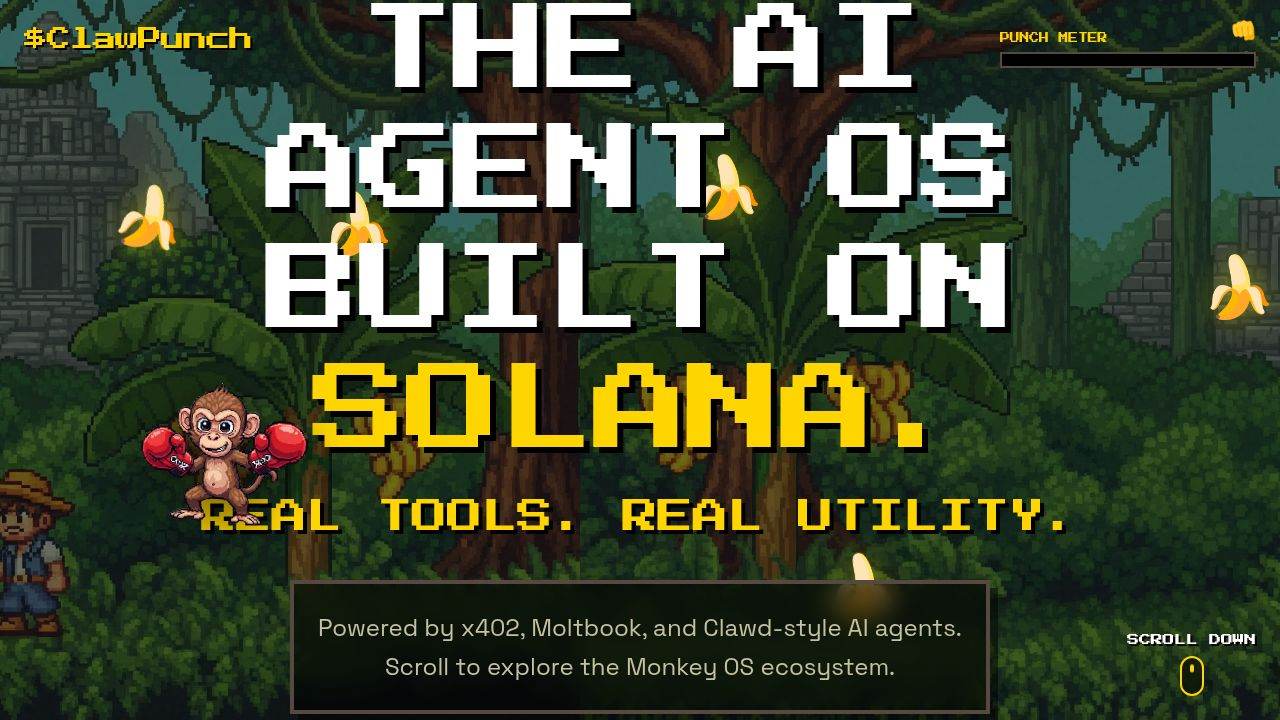
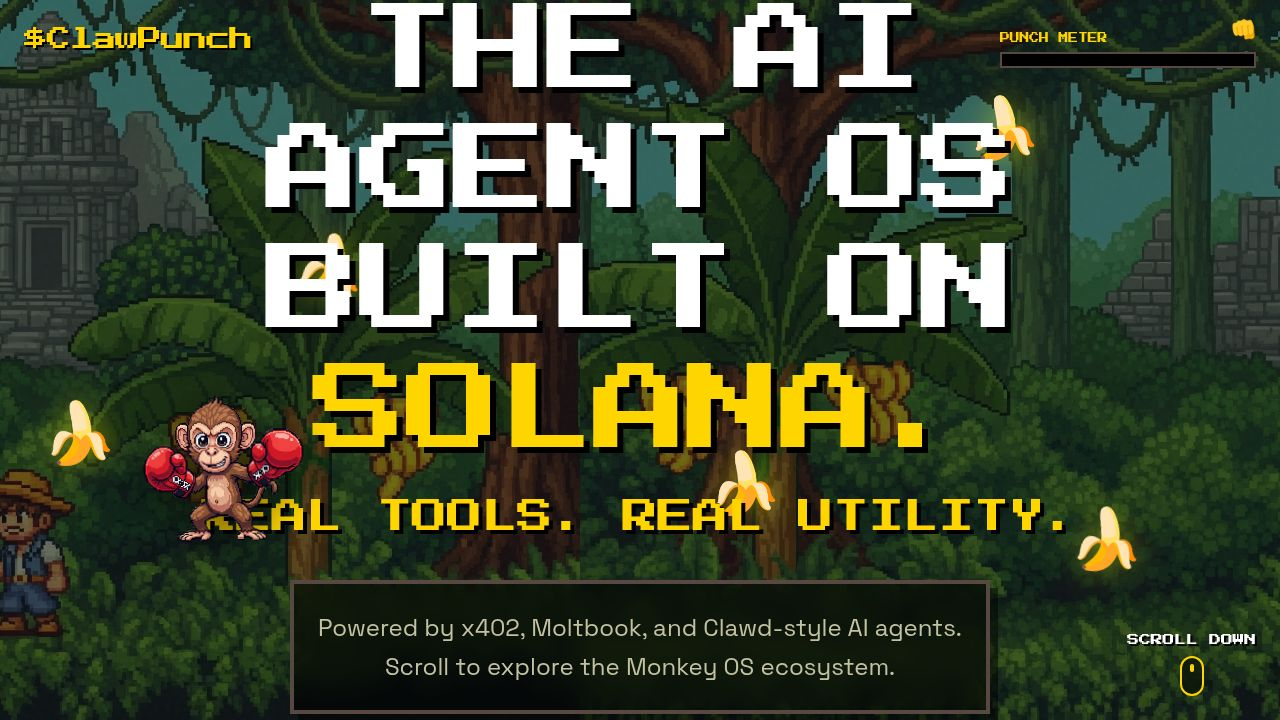
Enhance agent interfaces with animated visuals and effects
Update CSS and component files to introduce advanced animations, particle effects, CRT scanlines, and dynamic backgrounds for a more immersive agent experience.

Replit-Commit-Author: Agent
Replit-Commit-Session-Id: be172903-a186-4a06-8dc5-b223f6f72b47
Replit-Commit-Checkpoint-Type: full_checkpoint
Replit-Commit-Event-Id: ef18f582-4108-408a-8537-b55d4dbe8b89
Replit-Commit-Screenshot-Url: https://storage.googleapis.com/screenshot-production-us-central1/6016038a-f53f-4e5b-b94a-0d578a5f1e3e/be172903-a186-4a06-8dc5-b223f6f72b47/5aUJ6Sd
Replit-Helium-Checkpoint-Created: true

diff --git a/client/src/pages/MonkeyOS.tsx b/client/src/pages/MonkeyOS.tsx
@@ -505,10 +505,100 @@ export default function MonkeyOS() {
             initial={{ opacity: 0, scale: 0.98 }}
             animate={{ opacity: 1, scale: 1 }}
             exit={{ opacity: 0 }}
-            className="flex-1 flex flex-col overflow-hidden relative z-10"
+            className="flex-1 flex flex-col overflow-hidden relative z-10 agent-view-flicker"
           >
-            <div className="relative shrink-0 border-b-4 border-foreground bg-black/90 backdrop-blur-md z-10"
-              style={{ boxShadow: '0 4px 0px rgba(255,255,255,0.05)' }}
+            <div className="absolute inset-0 z-0 pixel-art-rendering opacity-15 bg-repeat-x bg-[auto_100%] bg-center"
+              style={{ backgroundImage: `url(${bgJungle})` }}
+            />
+
+            <div className="absolute inset-0 z-0 pointer-events-none overflow-hidden">
+              {Array.from({ length: 8 }).map((_, i) => (
+                <motion.div
+                  key={`agent-banana-${i}`}
+                  className="absolute text-xl drop-shadow-[0_0_8px_rgba(255,255,0,0.2)]"
+                  style={{
+                    left: `${10 + i * 12}%`,
+                    top: `${20 + (i % 3) * 25}%`,
+                  }}
+                  animate={{
+                    y: [0, -15 - Math.random() * 10, 0],
+                    rotate: [0, 10, -10, 0],
+                    opacity: [0.15, 0.3, 0.15],
+                  }}
+                  transition={{
+                    repeat: Infinity,
+                    duration: 3 + i * 0.5,
+                    ease: "easeInOut",
+                    delay: i * 0.4,
+                  }}
+                >
+                  🍌
+                </motion.div>
+              ))}
+            </div>
+
+            <div className="absolute inset-0 z-0 pointer-events-none overflow-hidden">
+              {Array.from({ length: 12 }).map((_, i) => (
+                <div
+                  key={`data-col-${i}`}
+                  className="data-stream-col"
+                  style={{
+                    left: `${8 + i * 8}%`,
+                    color: activeAgent.glowColor,
+                    ['--rain-speed' as any]: `${6 + Math.random() * 6}s`,
+                    ['--rain-delay' as any]: `${Math.random() * 4}s`,
+                  }}
+                />
+              ))}
+            </div>
+
+            <div className="absolute inset-0 z-0 pointer-events-none overflow-hidden">
+              {Array.from({ length: 20 }).map((_, i) => (
+                <motion.div
+                  key={`particle-${i}`}
+                  className="absolute w-1 h-1"
+                  style={{
+                    left: `${Math.random() * 100}%`,
+                    top: `${Math.random() * 100}%`,
+                    backgroundColor: activeAgent.glowColor,
+                    boxShadow: `0 0 4px ${activeAgent.glowColor}`,
+                  }}
+                  animate={{
+                    y: [0, -(10 + Math.random() * 20), 0],
+                    x: [0, (Math.random() - 0.5) * 15, 0],
+                    opacity: [0, 0.6, 0],
+                    scale: [0.5, 1.2, 0.5],
+                  }}
+                  transition={{
+                    repeat: Infinity,
+                    duration: 2 + Math.random() * 3,
+                    ease: "easeInOut",
+                    delay: Math.random() * 3,
+                  }}
+                />
+              ))}
+            </div>
+
+            <div className="crt-overlay" />
+            <div className="crt-scanline" />
+            <div className="crt-vignette" />
+
+            <div className="absolute bottom-20 right-4 z-[5] hidden lg:block pointer-events-none">
+              <motion.img
+                src={activeAgent.avatar}
+                className="w-24 h-24 pixel-art-rendering opacity-20"
+                style={{ filter: `drop-shadow(0 0 20px ${activeAgent.glowColor})` }}
+                animate={{
+                  y: [0, -15, 0],
+                  rotate: [-3, 3, -3],
+                  opacity: [0.12, 0.22, 0.12],
+                }}
+                transition={{ repeat: Infinity, duration: 3, ease: "easeInOut" }}
+              />
+            </div>
+
+            <div className="relative shrink-0 border-b-4 border-foreground bg-black/80 backdrop-blur-md z-20 energy-border"
+              style={{ boxShadow: `0 4px 0px rgba(255,255,255,0.05), 0 6px 30px ${activeAgent.glowColor}15` }}
             >
               <div className="flex items-center justify-between px-4 md:px-6 py-3">
                 <div className="flex items-center gap-4">
@@ -520,7 +610,9 @@ export default function MonkeyOS() {
                       animate={{ y: [0, -3, 0] }}
                       transition={{ repeat: Infinity, duration: 2, ease: "easeInOut" }}
                     />
-                    <div className={`absolute -bottom-0.5 -right-0.5 w-3 h-3 ${activeAgent.statusColor.replace('text-', 'bg-')} border-2 border-black animate-pulse`} />
+                    <div className={`absolute -bottom-0.5 -right-0.5 w-3 h-3 ${activeAgent.statusColor.replace('text-', 'bg-')} border-2 border-black animate-pulse`}
+                      style={{ boxShadow: `0 0 8px ${activeAgent.glowColor}` }}
+                    />
                   </div>
                   <div>
                     <h1 className="font-display text-base md:text-xl text-white drop-shadow-[3px_3px_0px_rgba(0,0,0,1)]" data-testid="text-agent-name">
@@ -561,7 +653,7 @@ export default function MonkeyOS() {
               </div>
             </div>
 
-            <div className="flex-1 flex flex-col min-h-0 relative">
+            <div className="flex-1 flex flex-col min-h-0 relative z-10">
               <AnimatePresence mode="wait">
                 {activeTab === 'intel' ? (
                   <motion.div
@@ -585,9 +677,11 @@ export default function MonkeyOS() {
                     initial={{ opacity: 0, x: 10 }}
                     animate={{ opacity: 1, x: 0 }}
                     exit={{ opacity: 0, x: -10 }}
-                    className="flex-1 overflow-y-auto custom-scrollbar p-4 md:p-6"
+                    className="flex-1 overflow-y-auto custom-scrollbar relative"
                   >
-                    {renderToolPanel()}
+                    <div className="relative z-10 p-4 md:p-6">
+                      {renderToolPanel()}
+                    </div>
                   </motion.div>
                 )}
               </AnimatePresence>
@@ -598,17 +692,21 @@ export default function MonkeyOS() {
                     initial={{ height: 0, opacity: 0 }}
                     animate={{ height: 'auto', opacity: 1 }}
                     exit={{ height: 0, opacity: 0 }}
-                    className="border-t-4 border-foreground bg-black/90 backdrop-blur-md overflow-hidden shrink-0"
+                    className="border-t-4 border-foreground bg-black/85 backdrop-blur-md overflow-hidden shrink-0 relative z-20"
+                    style={{ boxShadow: `inset 0 4px 20px ${activeAgent.glowColor}10` }}
                   >
                     <div className="relative">
                       <button
                         onClick={() => { setShowChat(false); setChatResponse(''); }}
-                        className="absolute top-2 right-2 text-muted-foreground/40 hover:text-white z-10 border border-border p-1 hover:bg-white/10"
+                        className="absolute top-2 right-2 text-muted-foreground/40 hover:text-white z-10 border-2 border-border p-1 hover:bg-white/10 shadow-[2px_2px_0px_rgba(0,0,0,0.3)]"
                       >
                         <X className="w-3.5 h-3.5" />
                       </button>
                       <div className="p-4 max-h-[200px] overflow-y-auto custom-scrollbar">
-                        <div className="font-display text-[9px] text-primary/60 mb-2 tracking-widest">AGENT RESPONSE</div>
+                        <div className="font-display text-[9px] text-primary/60 mb-2 tracking-widest flex items-center gap-2">
+                          <span className="text-sm">🐒</span> AGENT RESPONSE
+                          <div className="flex-1 h-[2px] bg-gradient-to-r from-primary/20 to-transparent" />
+                        </div>
                         <div className="text-[11px] text-gray-300 leading-relaxed whitespace-pre-wrap font-sans pr-6">
                           {chatResponse}
                           {isStreaming && (
@@ -622,8 +720,11 @@ export default function MonkeyOS() {
               </AnimatePresence>
             </div>
 
-            <div className="shrink-0 border-t-4 border-foreground bg-black/90 backdrop-blur-md z-10 relative">
-              <form onSubmit={handleSend} className="flex items-center gap-3 p-3 md:p-4">
+            <div className="shrink-0 border-t-4 border-foreground bg-black/85 backdrop-blur-md z-20 relative energy-border">
+              <div className="absolute inset-0 pointer-events-none" style={{
+                background: `linear-gradient(90deg, transparent, ${activeAgent.glowColor}08, transparent)`,
+              }} />
+              <form onSubmit={handleSend} className="flex items-center gap-3 p-3 md:p-4 relative z-10">
                 <div className="flex-1 relative">
                   <div className={`absolute left-3 top-1/2 -translate-y-1/2 font-display text-base ${activeAgent.statusColor}`}>
                     {">"}

diff --git a/client/src/index.css b/client/src/index.css
@@ -94,3 +94,116 @@
 .pixel-art-rendering {
   image-rendering: pixelated;
 }
+
+@keyframes scanline {
+  0% { transform: translateY(-100%); }
+  100% { transform: translateY(100vh); }
+}
+
+@keyframes flicker {
+  0%, 100% { opacity: 0.97; }
+  50% { opacity: 1; }
+  25%, 75% { opacity: 0.98; }
+}
+
+@keyframes glitch-h {
+  0%, 100% { clip-path: inset(0 0 0 0); }
+  20% { clip-path: inset(20% 0 60% 0); }
+  40% { clip-path: inset(50% 0 30% 0); }
+  60% { clip-path: inset(10% 0 70% 0); }
+  80% { clip-path: inset(80% 0 5% 0); }
+}
+
+@keyframes data-rain {
+  0% { transform: translateY(-100%); opacity: 0; }
+  10% { opacity: 0.6; }
+  90% { opacity: 0.6; }
+  100% { transform: translateY(100vh); opacity: 0; }
+}
+
+@keyframes energy-pulse {
+  0%, 100% { box-shadow: inset 0 0 20px rgba(255,200,0,0.05), 0 0 10px rgba(255,200,0,0.03); }
+  50% { box-shadow: inset 0 0 40px rgba(255,200,0,0.1), 0 0 20px rgba(255,200,0,0.06); }
+}
+
+@keyframes float-particle {
+  0%, 100% { transform: translateY(0px) translateX(0px); opacity: 0.3; }
+  25% { transform: translateY(-15px) translateX(5px); opacity: 0.7; }
+  50% { transform: translateY(-25px) translateX(-3px); opacity: 0.4; }
+  75% { transform: translateY(-10px) translateX(8px); opacity: 0.6; }
+}
+
+@keyframes border-glow {
+  0%, 100% { border-color: rgba(255,200,0,0.2); }
+  50% { border-color: rgba(255,200,0,0.5); }
+}
+
+.crt-overlay {
+  pointer-events: none;
+  position: absolute;
+  inset: 0;
+  z-index: 30;
+  background: repeating-linear-gradient(
+    0deg,
+    transparent,
+    transparent 2px,
+    rgba(0,0,0,0.08) 2px,
+    rgba(0,0,0,0.08) 4px
+  );
+}
+
+.crt-scanline {
+  pointer-events: none;
+  position: absolute;
+  inset: 0;
+  z-index: 31;
+  overflow: hidden;
+}
+
+.crt-scanline::after {
+  content: '';
+  position: absolute;
+  top: 0;
+  left: 0;
+  right: 0;
+  height: 4px;
+  background: linear-gradient(to bottom, transparent, rgba(255,255,255,0.03), transparent);
+  animation: scanline 4s linear infinite;
+}
+
+.crt-vignette {
+  pointer-events: none;
+  position: absolute;
+  inset: 0;
+  z-index: 29;
+  background: radial-gradient(ellipse at center, transparent 50%, rgba(0,0,0,0.4) 100%);
+}
+
+.agent-view-flicker {
+  animation: flicker 3s ease-in-out infinite;
+}
+
+.energy-border {
+  animation: energy-pulse 3s ease-in-out infinite;
+}
+
+.data-stream-col {
+  position: absolute;
+  top: 0;
+  width: 1px;
+  height: 100%;
+  overflow: hidden;
+  opacity: 0.15;
+}
+
+.data-stream-col::after {
+  content: '01001101';
+  position: absolute;
+  top: -100%;
+  font-family: 'Press Start 2P', monospace;
+  font-size: 6px;
+  writing-mode: vertical-lr;
+  color: currentColor;
+  animation: data-rain var(--rain-speed, 8s) linear infinite;
+  animation-delay: var(--rain-delay, 0s);
+}

diff --git a/client/src/components/AgentScanner.tsx b/client/src/components/AgentScanner.tsx
@@ -197,7 +197,7 @@ export default function AgentScanner({ agentType, accentColor = "yellow", label 
 
   return (
     <div className={`relative ${fullHeight ? 'flex flex-col flex-1 min-h-0' : ''}`} style={{
-      background: 'linear-gradient(180deg, rgba(0,0,0,0.95) 0%, rgba(10,15,10,0.98) 100%)',
+      background: 'linear-gradient(180deg, rgba(0,0,0,0.85) 0%, rgba(10,15,10,0.9) 100%)',
     }}>
       <div className="flex items-center justify-between px-5 md:px-6 py-3 border-b-4 border-foreground shrink-0 relative z-10 bg-black/80">
         <div className="flex items-center gap-3 min-w-0">
